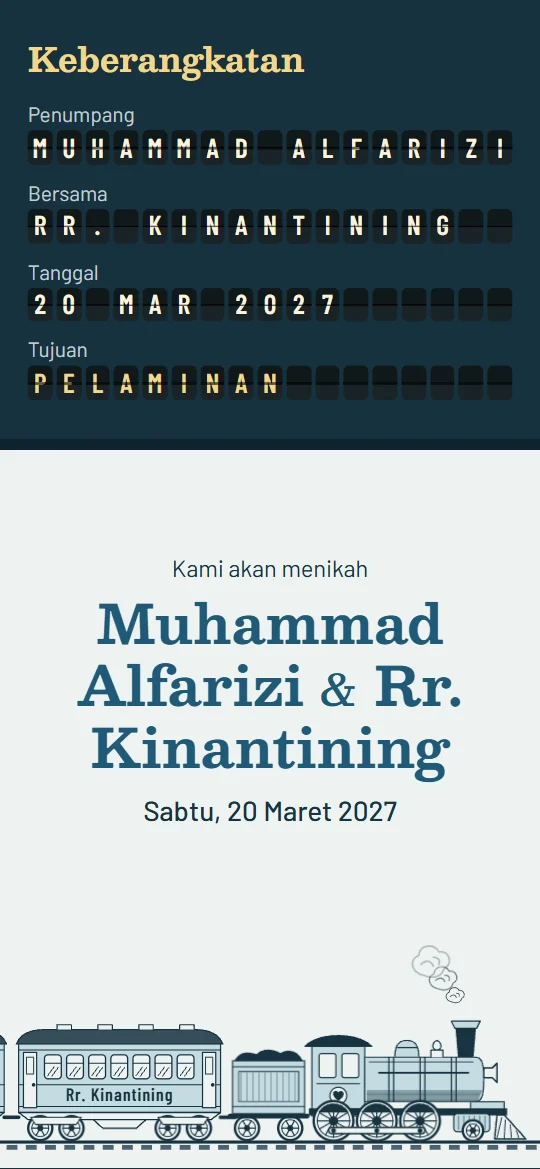
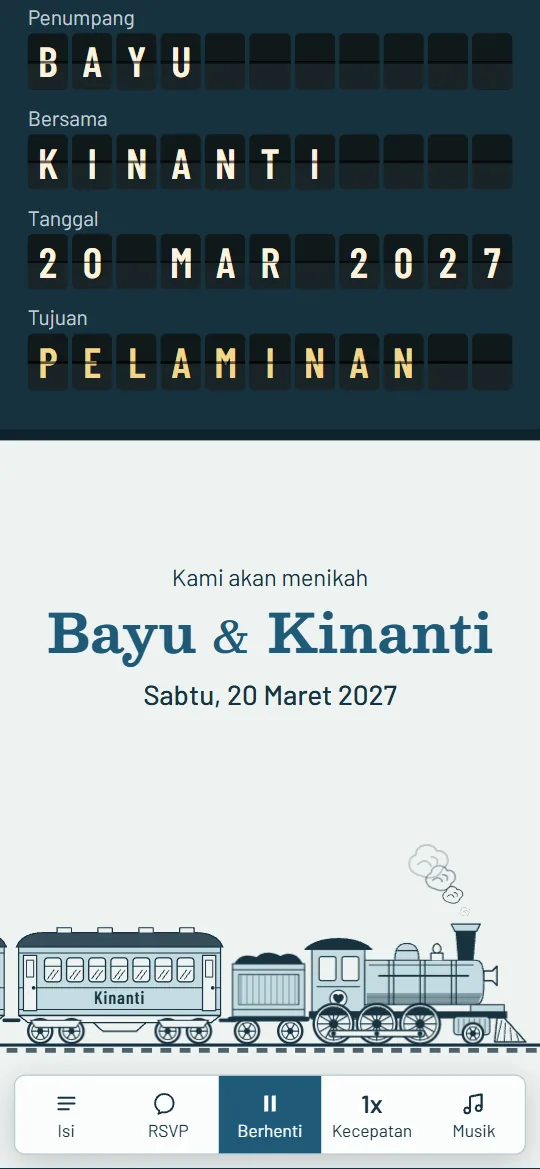
Jasa isi Hemat Rp10.000 dan perbaikan gambar Tiket Kereta biru

diff --git a/src/lib/site.ts b/src/lib/site.ts
@@ -37,7 +37,7 @@ export type Pricing = {
 export const HEMAT_DEFAULTS = { hemat: 50000, hematPromo: 39000, hematPromoUntil: "2026-12-31", partnerHemat: 25000 };
 
 /** Biaya opsional kalau klien paket Hemat minta isinya diisikan admin. Basic dan Premium gratis. */
-export const HEMAT_FILL_FEE = 15000;
+export const HEMAT_FILL_FEE = 10000;
 
 /** Promo berlaku kalau tanggalnya belum lewat (WIB) dan harganya memang di bawah harga normal. */
 function hematPrice(pricing: Pricing) {

diff --git a/docs/ROADMAP.md b/docs/ROADMAP.md
@@ -86,7 +86,7 @@ Dashboard database lokal: http://localhost:54323
 - [x] Tema Sunda (Premium): template adat sendiri `src/templates/adat/` (pintu Buka Panto, pemandangan berlapis, foto berbingkai rumah adat, ornamen siger/kujang/julang ngapak/bilik). Prompt Canva di `docs/PROMPT-CANVA-SUNDA.md`, olah aset dengan `scripts/olah-aset.mjs` dan `scripts/olah-kertas.mjs`.
 - [x] Tema Jawa (Javanese Keraton) dan Betawi (Betawi Heritage), Premium, pakai template adat yang sama. Nama file aset adat dibuat umum (gunung, bukit, tokoh, mahkota, atap, dll.); bentuk lapisan gunung bisa disetel per tema lewat `--mountain-scale`, `--mountain-shift`, `--mountain-size`, `--mountain-pos` (versi desktop: akhiran `-side`).
 - [x] Tema Surat Cinta (25 Nov 2026, Basic, **tanpa foto**): undangan berbentuk surat pos, semua gambar SVG lewat kode (`src/templates/surat-cinta/`), 3 warna. Gulir otomatis dan bilah bawah: `components/invitation/guide-dock.tsx`, berhenti saat layar disentuh dan di bagian RSVP. Manifest `withPhoto: false` otomatis menyembunyikan isian foto di editor, masuk filter "Tanpa foto" di katalog, dan gambar preview WhatsApp dibuat otomatis (`/og/<slug>`).
-- [x] Paket **Hemat** untuk tema tanpa foto (25 Nov 2026): normal Rp50.000, promo Rp39.000 sampai tanggal yang diatur admin (otomatis kembali normal), mitra Rp25.000. Semua diatur di Pengaturan. Jasa isi data: Hemat +Rp15.000 (opsional, `HEMAT_FILL_FEE` di `src/lib/site.ts`), Basic dan Premium gratis.
+- [x] Paket **Hemat** untuk tema tanpa foto (25 Nov 2026): normal Rp50.000, promo Rp39.000 sampai tanggal yang diatur admin (otomatis kembali normal), mitra Rp25.000. Semua diatur di Pengaturan. Jasa isi data: Hemat +Rp10.000 (opsional, `HEMAT_FILL_FEE` di `src/lib/site.ts`), Basic dan Premium gratis.
 - [x] Tema Koran Pagi (Hemat, tanpa foto): berita utama, agenda kupon, teka-teki silang otomatis dari nama dan tanggal, iklan baris, surat pembaca. Ilustrasi SVG gaya cukil, 3 warna.
 - [x] Tema Piringan Hitam (Hemat, tanpa foto): sampul album 70-an, piringan bisa diputar dengan jari, Sisi A dan B, daftar lagu, kaset rekening, titip salam. 3 warna.
 - [x] Tema Herbarium (Hemat, tanpa foto): buku bunga kering; buket disusun dari huruf nama pasangan, tiap tamu dapat rangkaian dari namanya sendiri. 3 warna.
